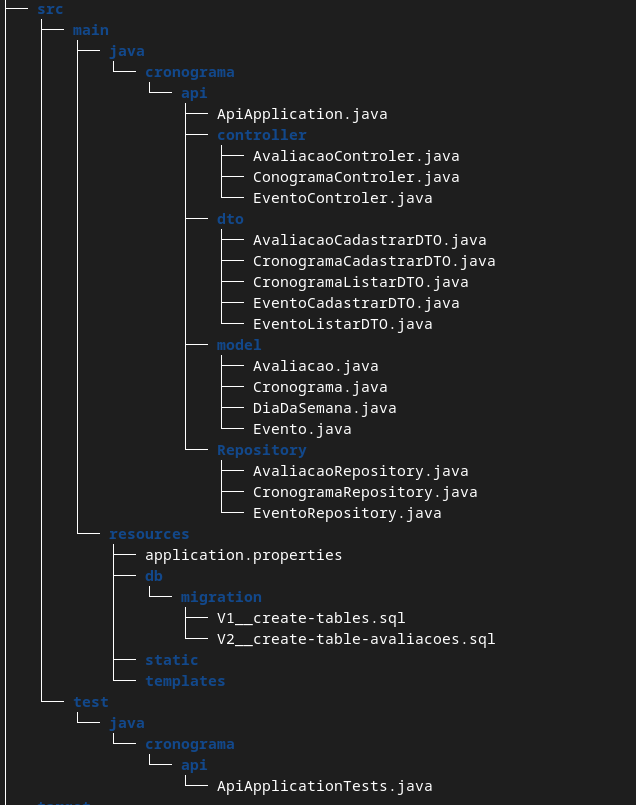
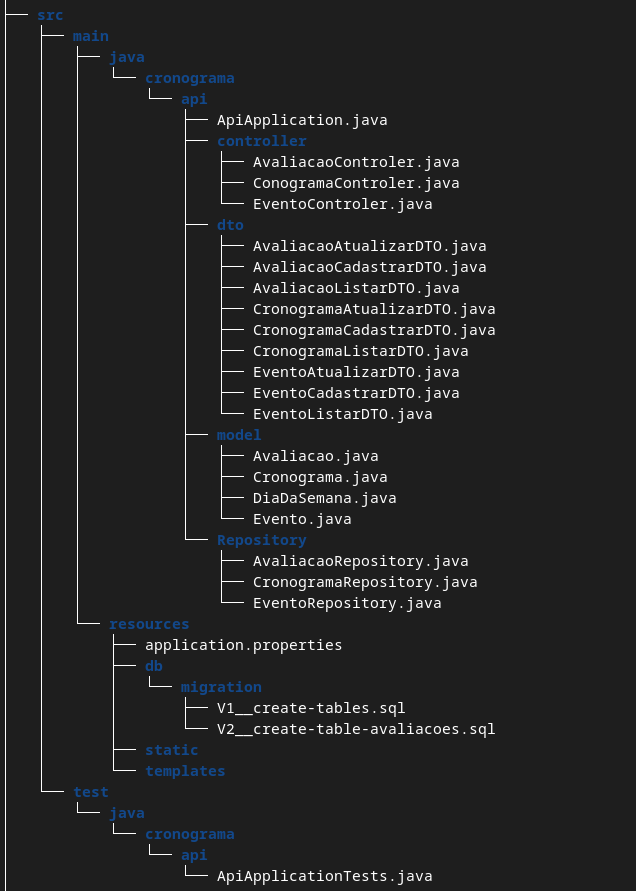
Implementando metodo PUT no projeto

diff --git a/src/main/java/cronograma/api/controller/ConogramaControler.java b/src/main/java/cronograma/api/controller/ConogramaControler.java
@@ -1,6 +1,7 @@
 package cronograma.api.controller;
 
 import cronograma.api.Repository.CronogramaRepository;
+import cronograma.api.dto.CronogramaAtualizarDTO;
 import cronograma.api.dto.CronogramaCadastrarDTO;
 import cronograma.api.dto.CronogramaListarDTO;
 import cronograma.api.model.Cronograma;
@@ -10,6 +11,7 @@ import org.springframework.beans.factory.annotation.Autowired;
 import org.springframework.web.bind.annotation.*;
 
 import java.util.List;
+import java.util.Optional;
 
 @RestController
 @RequestMapping("/cronogramas")
@@ -27,6 +29,13 @@ public class ConogramaControler {
     @GetMapping
     public List<CronogramaListarDTO> listarCronogramas() {
         return cronogramaRepository.findAll().stream().map(CronogramaListarDTO::new).toList();
+    }
+
+    @PutMapping
+    @Transactional
+    public void atualizarCronograma(@RequestBody @Valid CronogramaAtualizarDTO cronogramaAtualizarDTO) {
+        Optional<Cronograma> cronogramaOptional = cronogramaRepository.findById(cronogramaAtualizarDTO.id());
+        cronogramaOptional.ifPresent(cronograma -> cronograma.atualizar(cronogramaAtualizarDTO));
     }
 
 }

diff --git a/src/main/java/cronograma/api/model/Evento.java b/src/main/java/cronograma/api/model/Evento.java
@@ -1,7 +1,9 @@
 package cronograma.api.model;
 
+import cronograma.api.dto.EventoAtualizarDTO;
 import cronograma.api.dto.EventoCadastrarDTO;
 import jakarta.persistence.*;
+import jakarta.validation.Valid;
 import lombok.EqualsAndHashCode;
 import lombok.Getter;
 import lombok.NoArgsConstructor;
@@ -45,4 +47,18 @@ public class Evento {
         this.horarioTermina = LocalTime.from(formatador.parse(horarioTermina));
     }
 
+    public void atualizar(EventoAtualizarDTO eventoAtualizarDTO) {
+        if (eventoAtualizarDTO.nome() != null) {
+            this.nome = eventoAtualizarDTO.nome();
+        }
+        if (eventoAtualizarDTO.diaDaSemana() != null) {
+            this.diaDaSemana = eventoAtualizarDTO.diaDaSemana();
+        }
+        if (eventoAtualizarDTO.horario() != null) {
+            this.setHorario(eventoAtualizarDTO.horario());
+        }
+        if (eventoAtualizarDTO.horarioTermina() != null) {
+            this.setHorarioTermina(eventoAtualizarDTO.horarioTermina());
+        }
+    }
 }

diff --git a/src/main/java/cronograma/api/controller/AvaliacaoControler.java b/src/main/java/cronograma/api/controller/AvaliacaoControler.java
@@ -2,6 +2,7 @@ package cronograma.api.controller;
 
 import cronograma.api.Repository.AvaliacaoRepository;
 import cronograma.api.Repository.EventoRepository;
+import cronograma.api.dto.AvaliacaoAtualizarDTO;
 import cronograma.api.dto.AvaliacaoCadastrarDTO;
 import cronograma.api.dto.AvaliacaoListarDTO;
 import cronograma.api.model.Avaliacao;
@@ -46,5 +47,12 @@ public class AvaliacaoControler {
             return avaliacaoRepository.findByeventoId(eventoId, pageable).stream().map(AvaliacaoListarDTO::new).toList();
         }
         return avaliacaoRepository.findAll(pageable).stream().map(AvaliacaoListarDTO::new).toList();
+    }
+
+    @PutMapping
+    @Transactional
+    public void atualizarAvaliacao(@RequestBody @Valid AvaliacaoAtualizarDTO avaliacaoAtualizarDTO) {
+        Optional<Avaliacao> avaliacaoOptional = avaliacaoRepository.findById(avaliacaoAtualizarDTO.id());
+        avaliacaoOptional.ifPresent(avaliacao -> avaliacao.atualizar(avaliacaoAtualizarDTO));
     }
 }

diff --git a/src/main/java/cronograma/api/controller/EventoControler.java b/src/main/java/cronograma/api/controller/EventoControler.java
@@ -2,6 +2,7 @@ package cronograma.api.controller;
 
 import cronograma.api.Repository.CronogramaRepository;
 import cronograma.api.Repository.EventoRepository;
+import cronograma.api.dto.EventoAtualizarDTO;
 import cronograma.api.dto.EventoCadastrarDTO;
 import cronograma.api.dto.EventoListarDTO;
 import cronograma.api.model.Cronograma;
@@ -44,5 +45,12 @@ public class EventoControler {
             return eventoRepository.findBycronogramaId(cronogramaId, pageable).stream().map(EventoListarDTO::new).toList();
         }
         return eventoRepository.findAll(pageable).stream().map(EventoListarDTO::new).toList();
+    }
+
+    @PutMapping
+    @Transactional
+    public void atualizarEvento(@RequestBody @Valid EventoAtualizarDTO eventoAtualizarDTO) {
+        Optional<Evento> eventoOptional = eventoRepository.findById(eventoAtualizarDTO.id());
+        eventoOptional.ifPresent(evento -> evento.atualizar(eventoAtualizarDTO));
     }
 }

diff --git a/src/main/java/cronograma/api/dto/EventoListarDTO.java b/src/main/java/cronograma/api/dto/EventoListarDTO.java
@@ -5,15 +5,19 @@ import cronograma.api.model.Evento;
 
 import java.time.LocalTime;
 
-public record EventoListarDTO(String nome,
+public record EventoListarDTO(Long id,
+                              String nome,
                               DiaDaSemana diaDaSemana,
                               LocalTime horario,
-                              LocalTime horarioTermina) {
+                              LocalTime horarioTermina,
+                              Long cronogramaId) {
 
     public EventoListarDTO(Evento evento) {
-        this(evento.getNome(),
+        this(evento.getId(),
+                evento.getNome(),
                 evento.getDiaDaSemana(),
                 evento.getHorario(),
-                evento.getHorarioTermina());
+                evento.getHorarioTermina(),
+                evento.getCronograma().getId());
     }
 }

diff --git a/src/main/java/cronograma/api/model/Avaliacao.java b/src/main/java/cronograma/api/model/Avaliacao.java
@@ -1,5 +1,6 @@
 package cronograma.api.model;
 
+import cronograma.api.dto.AvaliacaoAtualizarDTO;
 import cronograma.api.dto.AvaliacaoCadastrarDTO;
 import jakarta.persistence.*;
 import lombok.EqualsAndHashCode;
@@ -31,5 +32,14 @@ public class Avaliacao {
         this.data = LocalDate.now();
         this.nota = avaliacaoCadastrarDTO.nota();
         this.texto = avaliacaoCadastrarDTO.texto();
+    }
+
+    public void atualizar(AvaliacaoAtualizarDTO avaliacaoAtualizarDTO) {
+        if (avaliacaoAtualizarDTO.nota() != null) {
+            this.nota = avaliacaoAtualizarDTO.nota();
+        }
+        if (avaliacaoAtualizarDTO.texto() != null) {
+            this.texto = avaliacaoAtualizarDTO.texto();
+        }
     }
 }

diff --git a/src/main/java/cronograma/api/dto/AvaliacaoListarDTO.java b/src/main/java/cronograma/api/dto/AvaliacaoListarDTO.java
@@ -5,12 +5,18 @@ import cronograma.api.model.Avaliacao;
 import java.time.LocalDate;
 
 public record AvaliacaoListarDTO(
+        Long id,
         double nota,
         String texto,
-        LocalDate data) {
+        LocalDate data,
+        Long eventoId) {
 
     public AvaliacaoListarDTO(Avaliacao avaliacao) {
-        this(avaliacao.getNota(), avaliacao.getTexto(), avaliacao.getData());
+        this(avaliacao.getId(),
+                avaliacao.getNota(),
+                avaliacao.getTexto(),
+                avaliacao.getData(),
+                avaliacao.getEvento().getId());
     }
 
 }

diff --git a/src/main/java/cronograma/api/model/Cronograma.java b/src/main/java/cronograma/api/model/Cronograma.java
@@ -1,5 +1,6 @@
 package cronograma.api.model;
 
+import cronograma.api.dto.CronogramaAtualizarDTO;
 import cronograma.api.dto.CronogramaCadastrarDTO;
 import jakarta.persistence.*;
 import lombok.EqualsAndHashCode;
@@ -19,5 +20,11 @@ public class Cronograma {
 
     public Cronograma(CronogramaCadastrarDTO cronogramaCadastrarDTO) {
         this.nome = cronogramaCadastrarDTO.nome();
+    }
+
+    public void atualizar(CronogramaAtualizarDTO cronogramaAtualizarDTO) {
+        if (cronogramaAtualizarDTO.nome() != null) {
+            this.nome = cronogramaAtualizarDTO.nome();
+        }
     }
 }

diff --git a/src/main/java/cronograma/api/dto/EventoAtualizarDTO.java b/src/main/java/cronograma/api/dto/EventoAtualizarDTO.java
@@ -1,0 +1,17 @@
+package cronograma.api.dto;
+
+import cronograma.api.model.DiaDaSemana;
+import jakarta.validation.constraints.NotNull;
+import jakarta.validation.constraints.Pattern;
+
+public record EventoAtualizarDTO(
+        @NotNull
+        Long id,
+        String nome,
+        DiaDaSemana diaDaSemana,
+        @Pattern(regexp = "[0-2][0-9]:[0-5][0-9]")
+        String horario,
+        @Pattern(regexp = "[0-2][0-9]:[0-5][0-9]")
+        String horarioTermina
+) {
+}

diff --git a/src/main/java/cronograma/api/dto/CronogramaListarDTO.java b/src/main/java/cronograma/api/dto/CronogramaListarDTO.java
@@ -2,9 +2,9 @@ package cronograma.api.dto;
 
 import cronograma.api.model.Cronograma;
 
-public record CronogramaListarDTO(String nome) {
+public record CronogramaListarDTO(Long id, String nome) {
 
     public CronogramaListarDTO(Cronograma cronograma) {
-        this(cronograma.getNome());
+        this(cronograma.getId(), cronograma.getNome());
     }
 }

diff --git a/src/main/java/cronograma/api/dto/AvaliacaoAtualizarDTO.java b/src/main/java/cronograma/api/dto/AvaliacaoAtualizarDTO.java
@@ -1,0 +1,11 @@
+package cronograma.api.dto;
+
+import jakarta.validation.constraints.NotNull;
+
+public record AvaliacaoAtualizarDTO(
+        @NotNull
+        Long id,
+        Double nota,
+        String texto
+) {
+}

diff --git a/src/main/java/cronograma/api/dto/CronogramaAtualizarDTO.java b/src/main/java/cronograma/api/dto/CronogramaAtualizarDTO.java
@@ -1,0 +1,10 @@
+package cronograma.api.dto;
+
+import jakarta.validation.constraints.NotNull;
+
+public record CronogramaAtualizarDTO(
+        @NotNull
+        Long id,
+        String nome
+) {
+}
